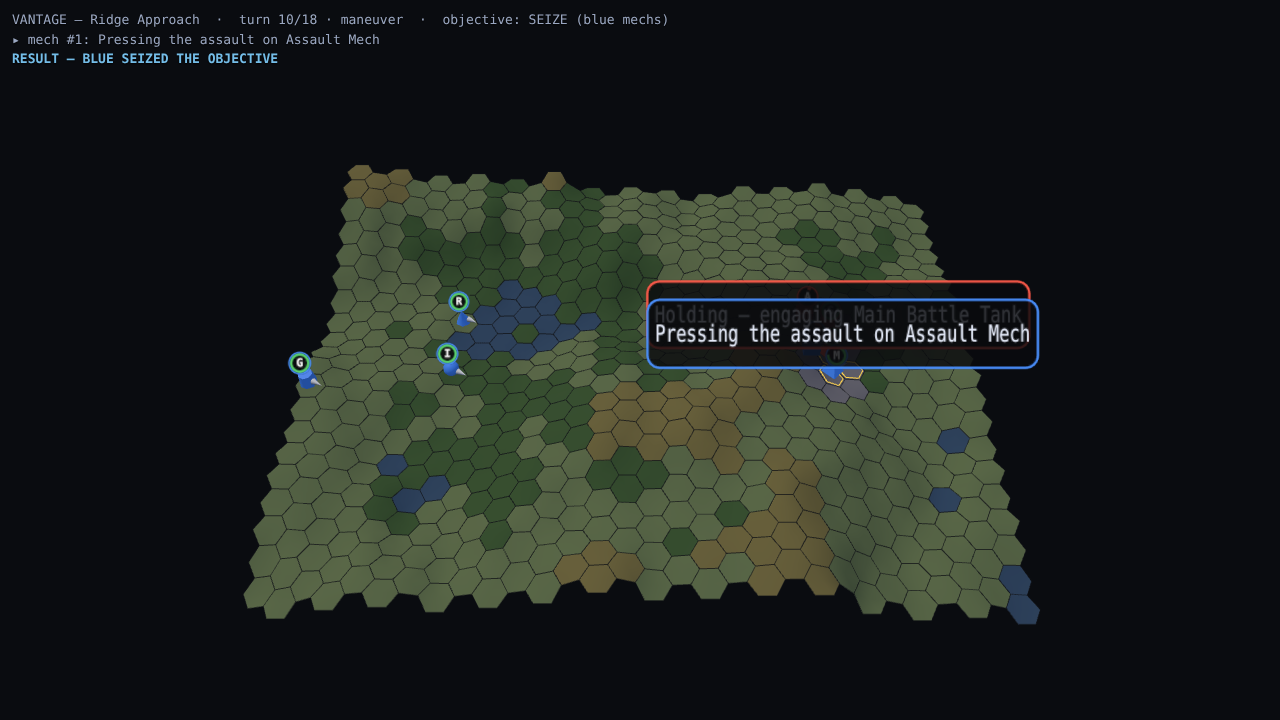
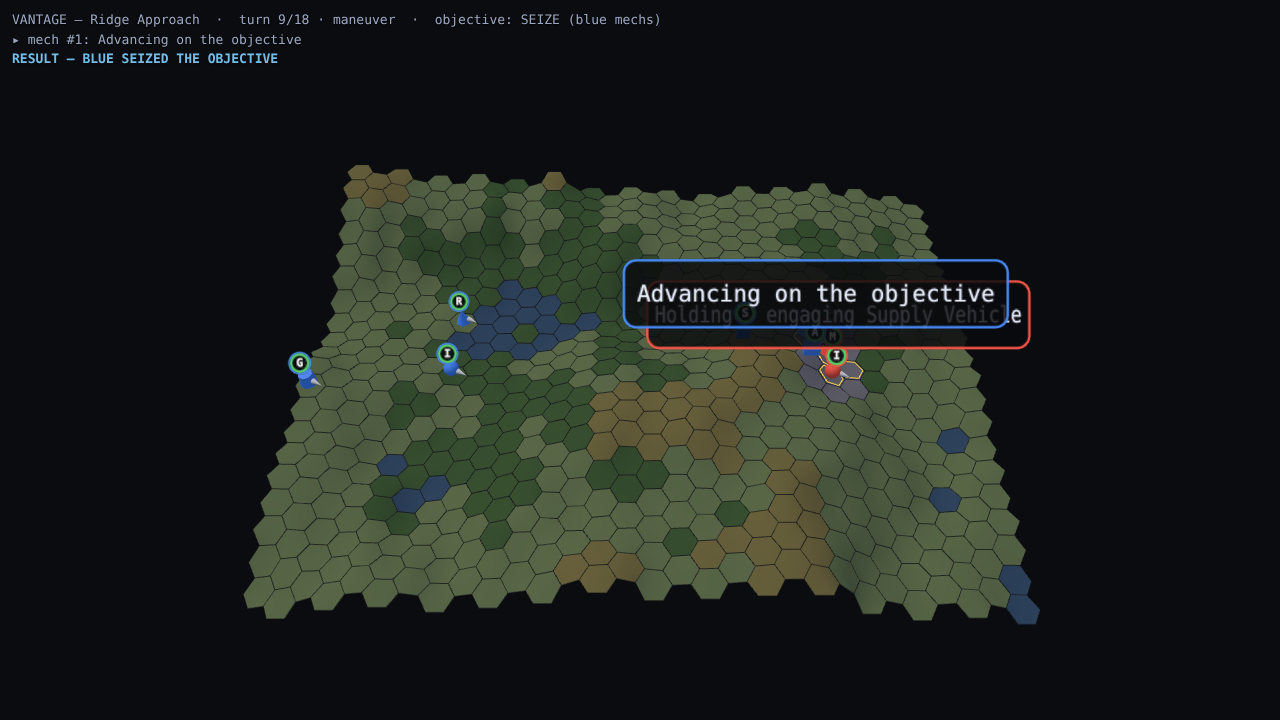
V1-A: AI fallibility — seeded, bounded, designer-tunable skill
A perfect AI leaves the player no slack to exploit, so commanders now make
mistakes — but the imperfection is SEEDED (deterministic) and BOUNDED (a
misstep, never a blunder):

- sim/ainoise.ts — a shared deterministic AI-noise helper (seed/turn/side/salt),
  extracted from the planner; now the source of both seeded variety and seeded
  fallibility.
- decideUnit satisfices: it may take any move within a satisficeBand of the best
  (picked by seeded noise, biased toward the top), instead of always the optimum.
- assess carries a seeded ± assessError, so a fallible commander misjudges the
  odds (over-confident or timid).
- Both scale by (1 - skill); skill is a designer-set per-side difficulty
  (MapDef.commanderSkill, default 1). At skill 1 the band is 0 → exactly optimal,
  which every existing test relies on (they run at the default skill 1).
- Determinism fix: unit ids are reset per game (createGame), since an id seeds
  the per-unit noise — without this, same-seed games diverged.

v0's map ships a dependable ally (1.0) + a fallible enemy (0.65): the proof stays
clean (no-support 0/20, with-support 18/20) while the OPPONENT the player faces
misjudges and missteps — so there's never a single "correct" line to play.
(Making the ally fallible cascades chaotically over a long match — a tunable for
a harder "manage a sloppy ally" scenario, not the default.)

Verified: 3 fallibility tests (deterministic-when-fallible; bounded missteps;
[…]

Changed region(s): [[0.4688, 0.3361, 0.8125, 0.5194], [0.0625, 0.0, 0.3125, 0.0611], [0.3438, 0.0, 0.5, 0.0306]]

diff --git a/test/fallibility.test.ts b/test/fallibility.test.ts
@@ -1,0 +1,49 @@
+import { describe, it, expect } from "vitest";
+import { decideUnit } from "../src/sim/ai";
+import { hexKey } from "../src/sim/hex";
+import type { ObjectiveDef } from "../src/data/types";
+import { axial, find, openGame, place } from "./helpers";
+
+// Commanders aren't perfect — but their imperfection is SEEDED and BOUNDED: a
+// misstep, never a blunder, and reproducible. (Skill 1 = always optimal, which
+// is what every other unit test relies on by default.)
+
+const objective: ObjectiveDef = { kind: "seize", turnLimit: 20, zone: [axial(20, 4)], attacker: "blue" };
+const game = () => openGame({ w: 26, h: 9, objective, units: [place("mech_assault", "blue", axial(6, 4))] });
+
+describe("commander fallibility", () => {
+  it("is deterministic even when fallible (same seed → same decision)", () => {
+    const a = game();
+    const b = game();
+    a.skill.blue = 0.5;
+    b.skill.blue = 0.5;
+    expect(decideUnit(a, find(a, "mech_assault"))).toEqual(decideUnit(b, find(b, "mech_assault")));
+  });
+
+  it("a fallible commander sometimes missteps — but not every time (bounded)", () => {
+    const s = game();
+    const mech = find(s, "mech_assault");
+    s.skill.blue = 1; // flawless → the optimal move
+    const optimal = hexKey(decideUnit(s, mech).destination);
+
+    s.skill.blue = 0.5; // fallible
+    let missteps = 0;
+    for (let t = 1; t <= 30; t++) {
+      s.turn = t; // varies the seeded judgement
+      if (hexKey(decideUnit(s, mech).destination) !== optimal) missteps++;
+    }
+    expect(missteps).toBeGreaterThan(0); // it does err...
+    expect(missteps).toBeLessThan(30); // ...but usually still plays near-best
+  });
+
+  it("at skill 1 it is exactly optimal (the default every test relies on)", () => {
+    const s = game();
+    const mech = find(s, "mech_assault");
+    s.skill.blue = 1;
+    const first = decideUnit(s, mech).destination;
+    for (let t = 1; t <= 10; t++) {
+      s.turn = t;
+      expect(decideUnit(s, mech).destination).toEqual(first); // no seeded wobble when flawless
+    }
+  });
+});

diff --git a/src/sim/ai.ts b/src/sim/ai.ts
@@ -10,6 +10,7 @@ import { pathTo, reachable } from "./pathing";
 import { canMove, livingUnits, terrainAt, type GameState, type UnitInstance } from "./state";
 import { isEligible } from "./turn";
 import { isScouted } from "./vision";
+import { aiNoise } from "./ainoise";
 import { planForce, type Task } from "./plan";
 
 // The force AI: ONE capability-aware, fog-limited brain that commands whatever
@@ -282,19 +283,27 @@ export function decideUnit(state: GameState, unit: UnitInstance, task?: Task): U
 
   const mobile = canMove(unit);
   const reach = reachable(state, unit);
-  let bestKey = hexKey(unit.hex);
-  let bestHex = unit.hex;
-  let bestScore = mobile ? -Infinity : score(unit.hex);
-  if (mobile) {
-    for (const [k, node] of reach) {
-      const s = score(node.hex);
-      if (s > bestScore || (s === bestScore && k < bestKey)) {
-        bestScore = s;
-        bestKey = k;
-        bestHex = node.hex;
-      }
-    }
+  const cands: Array<{ key: string; hex: Hex; score: number }> = [];
+  if (mobile) for (const [k, node] of reach) cands.push({ key: k, hex: node.hex, score: score(node.hex) });
+  else cands.push({ key: hexKey(unit.hex), hex: unit.hex, score: score(unit.hex) });
+
+  let best = cands[0];
+  for (const c of cands) if (c.score > best.score || (c.score === best.score && c.key < best.key)) best = c;
+
+  // Fallibility: a less-than-perfect commander may take a good-but-not-best move
+  // — a misstep, never a blunder (always within the satisfice band of the best),
+  // and seeded so it's deterministic. At skill 1 the band is 0 → always optimal.
+  let chosen = best;
+  const band = (1 - state.skill[side]) * RULES.commander.satisficeBand;
+  if (band > 0) {
+    const eligible = cands
+      .filter((c) => c.score >= best.score - band)
+      .sort((a, b) => b.score - a.score || (a.key < b.key ? -1 : 1));
+    const n = aiNoise(state, side, unit.id);
+    chosen = eligible[Math.min((n * n * eligible.length) | 0, eligible.length - 1)]; // biased toward the top
   }
+  const bestKey = chosen.key;
+  const bestHex = chosen.hex;
 
   const path = mobile ? pathTo(reach, bestKey) : [];
   const fireTargetId = pickTarget(unit, bestHex, visible);

diff --git a/src/sim/ainoise.ts b/src/sim/ainoise.ts
@@ -1,0 +1,17 @@
+import { mulberry32Step } from "../core/rng";
+import type { Side } from "../data/types";
+import type { GameState } from "./state";
+
+// Deterministic "AI noise" — a reproducible pseudo-random value in [0,1) keyed by
+// (seed, turn, side, salt). It is the source of the AI's *seeded* variety and
+// *seeded* fallibility: different seeds (and turns) play differently, but the
+// same seed replays identically, so self-play and tests stay deterministic.
+export function aiNoise(state: GameState, side: Side, salt: number): number {
+  const h =
+    (Math.imul(state.seed | 1, 2654435761) ^
+      Math.imul(state.turn + 1, 40503) ^
+      (side === "blue" ? 0x9e3779b1 : 0x85ebca6b) ^
+      Math.imul(salt + 1, 668265263)) |
+    0;
+  return mulberry32Step(h).value;
+}

diff --git a/src/sim/plan.ts b/src/sim/plan.ts
@@ -1,8 +1,8 @@
-import { mulberry32Step } from "../core/rng";
 import { terrain } from "../data/terrain";
 import type { Side } from "../data/types";
 import { unitType } from "../data/units";
 import { hexDistance, hexKey, type Hex } from "./hex";
+import { aiNoise } from "./ainoise";
 import { believedEnemies } from "./knowledge";
 import { livingUnits, type GameState } from "./state";
 
@@ -23,18 +23,6 @@ export interface Task {
 
 export interface ForcePlan {
   tasks: Map<number, Task>;
-}
-
-/** Deterministic per-(seed, turn, side, salt) value in [0,1). Different seeds →
- *  different choices; same seed → identical. */
-export function aiNoise(state: GameState, side: Side, salt: number): number {
-  const h =
-    (Math.imul(state.seed | 1, 2654435761) ^
-      Math.imul(state.turn + 1, 40503) ^
-      (side === "blue" ? 0x9e3779b1 : 0x85ebca6b) ^
-      Math.imul(salt + 1, 668265263)) |
-    0;
-  return mulberry32Step(h).value;
 }
 
 function centroid(hexes: readonly Hex[]): Hex {

diff --git a/src/data/maps/map01.ts b/src/data/maps/map01.ts
@@ -141,4 +141,10 @@ export const MAP01: MapDef = {
   cells: buildCells(),
   units,
   objective: { kind: "seize", turnLimit: 18, zone, attacker: "blue" },
+  // Skill is a tunable difficulty per side. The player's allied main effort is
+  // dependable (1.0) so the proof is clean; the ENEMY is fallible (0.65) — it
+  // misjudges and missteps, so the player has room and isn't forced into the one
+  // "correct" line. (A scenario could make the ally fallible too, for a harder
+  // "manage a sloppy ally" fight.)
+  commanderSkill: { blue: 1.0, red: 0.65 },
 };

diff --git a/src/sim/assess.ts b/src/sim/assess.ts
@@ -2,6 +2,7 @@ import { RULES } from "../data/rules";
 import type { Side } from "../data/types";
 import { unitType } from "../data/units";
 import { hexDistance, type Hex } from "./hex";
+import { aiNoise } from "./ainoise";
 import { believedEnemies, visibleSightings } from "./knowledge";
 import { hasCrit, livingUnits, type GameState, type PostureState, type Sighting, type UnitInstance } from "./state";
 import { isScouted } from "./vision";
@@ -84,7 +85,10 @@ export function assess(state: GameState, side: Side): Assessment {
   const own = ownStrength(livingUnits(state, side));
   const hidden = (1 - scouted) * RULES.commander.unknownStrength; // unseen ground may hide support
   const enemy = believedStrength(believed) + hidden;
-  const advantage = own / Math.max(1, enemy);
+  // Fallible commanders misjudge the odds (seeded, ± and scaled by 1 - skill):
+  // sometimes over-confident, sometimes timid.
+  const err = (aiNoise(state, side, 7717) - 0.5) * 2 * (1 - state.skill[side]) * RULES.commander.assessError;
+  const advantage = (own / Math.max(1, enemy)) * (1 + err);
 
   return { advantage, scouted, haveContact: visible.length > 0, targetId: target?.id ?? null };
 }

diff --git a/src/data/rules.ts b/src/data/rules.ts
@@ -46,5 +46,8 @@ export const RULES = {
     counterHysteresis: 1.2, // stay committed while the ratio holds above this
     minScoutToCommit: 0.45, // fraction of the approach corridor that must be scouted first
     unknownStrength: 26, // assumed hidden enemy strength per fully-unscouted corridor
+    // Fallibility (scaled by 1 - skill): commanders aren't perfect.
+    satisficeBand: 6, // a fallible commander may pick any move within this of the best
+    assessError: 0.35, // ± error a fallible commander makes judging its advantage
   },
 } as const;

diff --git a/src/data/types.ts b/src/data/types.ts
@@ -98,4 +98,7 @@ export interface MapDef {
   readonly cells: readonly MapCell[];
   readonly units: readonly UnitPlacement[];
   readonly objective: ObjectiveDef;
+  /** Commander skill per side in (0,1] — 1 = near-flawless, lower = more
+   *  fallible (a designer-set difficulty). Defaults to 1 if omitted. */
+  readonly commanderSkill?: { readonly blue?: number; readonly red?: number };
 }

diff --git a/src/sim/state.ts b/src/sim/state.ts
@@ -47,6 +47,7 @@ export interface GameState {
   intents: Record<number, string>; // mech id → the commander's current intent
   belief: { blue: Belief; red: Belief }; // fog-limited knowledge each side reasons on
   posture: { blue: PostureState; red: PostureState }; // operational posture per side
+  skill: { blue: number; red: number }; // commander skill (0,1]; <1 = fallible
 }
 
 /** Every random draw is logged for the headless harness (brief §3). */
@@ -88,6 +89,7 @@ let nextId = 1;
 
 /** Construct a fresh game from a map definition and a seed. */
 export function createGame(map: MapDef, seed: number): GameState {
+  nextId = 1; // deterministic unit ids per game (id is used as a seeded-AI salt)
   const cells = new Map<string, MapCell>();
   for (const cell of map.cells) cells.set(hexKey(cell.hex), cell);
 
@@ -131,6 +133,7 @@ export function createGame(map: MapDef, seed: number): GameState {
       blue: { kind: "hold", since: 1, targetId: null },
       red: { kind: "hold", since: 1, targetId: null },
     },
+    skill: { blue: map.commanderSkill?.blue ?? 1, red: map.commanderSkill?.red ?? 1 },
   };
 }
 

diff --git a/test/combat.test.ts b/test/combat.test.ts
@@ -52,6 +52,7 @@ function mkState(seed: number, units: UnitInstance[]): GameState {
     intents: {},
     belief: { blue: new Map(), red: new Map() },
     posture: { blue: { kind: "hold", since: 1, targetId: null }, red: { kind: "hold", since: 1, targetId: null } },
+    skill: { blue: 1, red: 1 },
   };
 }
 

diff --git a/docs/game/architecture.md b/docs/game/architecture.md
@@ -200,7 +200,28 @@ memory), never ground truth. Staged, gated:
     > harness role — termination/crash/invariant verification — is fully met. The
     > player-supported proof is unaffected (no-support 0/24, with-support 18/24).
 
-Then the rest of v1 (Breakthrough objective, more units/maps in data) per brief §5.
+## v1 (in progress)
+
+- **V1-A — AI fallibility / skill** ✅
+  Commanders aren't perfect (else the player has no slack to exploit). Imperfection
+  is **seeded and bounded**: the unit AI *satisfices* — it may take any move within
+  a `satisficeBand` of the best (a misstep, never a blunder), chosen by seeded AI
+  noise — and the assessment carries a seeded ± `assessError`. Both scale by
+  `1 - skill`, a **designer-set per-side difficulty** (`MapDef.commanderSkill`).
+  At skill 1 the band is 0 → exactly optimal (what every other test relies on).
+  Determinism is preserved (unit ids are now reset per game, since an id seeds
+  the noise). v0's map ships a **dependable ally (1.0) + fallible enemy (0.65)**:
+  the proof stays clean (no-support 0/20, with-support 18/20) while the *opponent*
+  the player faces misjudges and missteps — so there's never one "correct" line.
+  3 fallibility tests (determinism-when-fallible, bounded missteps, exact-at-1).
+- **V1-B — Competent attacker enabler** *(next)* — force-level attack competence
+  (protect the forward observer → suppress → sustain → commit) so AI-vs-AI is a
+  real contest and the enemy can attack.
+- **V1-C — Breakthrough objective + the mirror**; **V1-D — content + self-play
+  balance**. Plus the deferred interactive UI and the LLM-policy seam (above).
+
+(Brief §5: full mirror + enabler, all six commander inputs each tested, Seize +
+Breakthrough, 2–3 maps, bulk self-play balance ~50–65%.)
 
 ## Verification loop
 Per change: `typecheck → vitest → build → screenshot / headless run`. From the